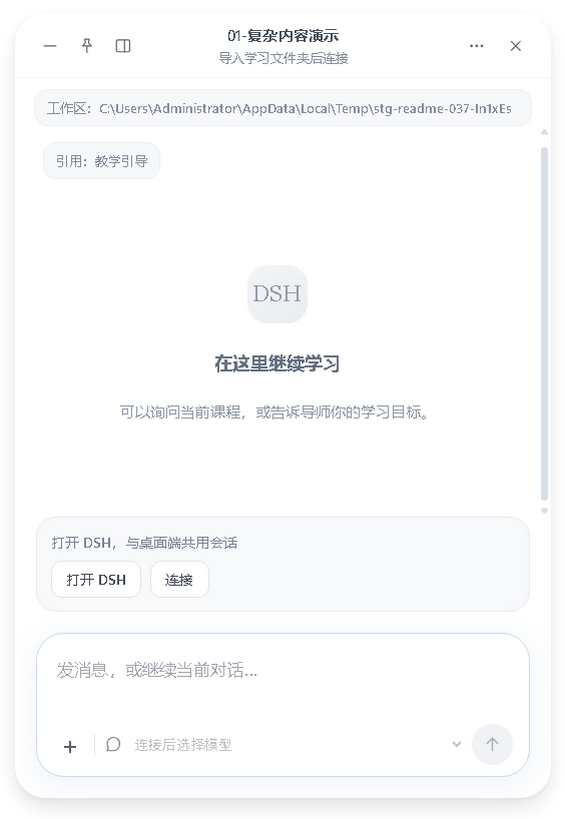
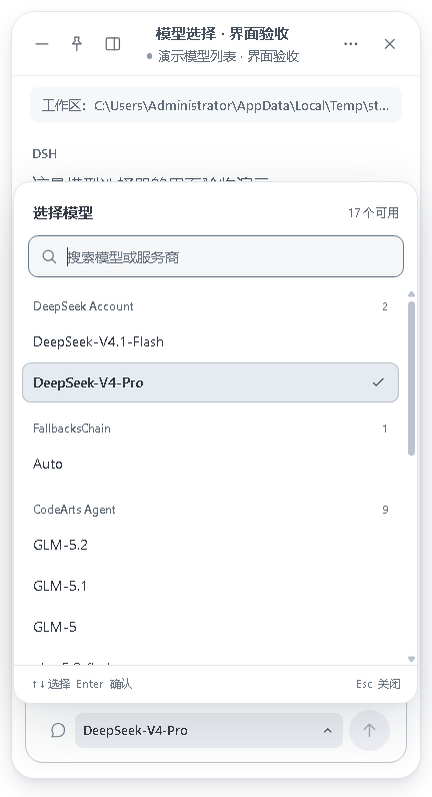
docs: update bilingual README for v0.3.18 workspace and DSH controls

diff --git a/README.en.md b/README.en.md
@@ -22,20 +22,20 @@ Reading, editing, and answering work independently; connect DSH when needed. Lea
 
 > This README covers [v0.3.18](https://github.com/wildcat430524/STG-Desk/releases/tag/v0.3.18). See the [release notes](https://github.com/wildcat430524/STG-Desk/releases) for version changes. The app interface is currently in Chinese.
 
-v0.3.18 removes the redundant plus button and divider from the composer, and balances the spacing between model selection and send. Course context remains automatic; searchable model selection, adjustable panes, and keyboard navigation remain available.
+v0.3.18 provides a simpler composer with aligned model and send controls and automatic course context. Search models and providers, resize panes, and switch between the lesson and answers when space is limited.
 
 ## Preview
 
 Teaching, answers, current chapter progress, and overall progress have separate entries. Documents can open in detached windows, and DSH offers a side panel or a floating window.
 
-![Model picker with provider search, price badges, and current selection](docs/screenshots/model-picker.png)
-
-The model picker supports provider groups, search, and keyboard navigation. This screenshot uses a demonstration model catalog.
-
 ![Teaching and answers in one workspace, with DSH available on demand](docs/screenshots/workspace.png)<br>
 <sub><strong>The workspace.</strong> Read the lesson on the left and answer question by question on the right. Open the DSH panel from the top-right corner when you need evaluation or discussion.</sub>
 
 Screenshots use demo lessons and test drafts, with no real learning records or model responses.
+
+![Model picker with provider search, price badges, and current selection](docs/screenshots/model-picker.png)
+
+The model picker supports provider groups, search, and keyboard navigation. This screenshot uses a demonstration model catalog.
 
 ## Features
 
@@ -46,7 +46,9 @@ Screenshots use demo lessons and test drafts, with no real learning records or m
 - **Edit the full answer document**: open the answer page directly or view and edit the complete student document beside the lesson.
 - **Follow recorded progress**: read chapter progress, overall progress, handoff status, and mastery records from existing documents.
 - **Read your way**: detached teaching and answer windows, font size, line spacing, reading width, night theme, and focus mode.
-- **Use native DSH sessions**: live messages and model selection come from your local DSH. The panel and floating window share the conversation and input draft.
+- **Adjust the workspace layout**: drag separators to allocate space to the lesson, answers, and DSH. Layout is remembered per workspace; switch between the lesson and answers in narrow areas.
+- **Use native DSH sessions**: search models grouped by provider, with price badges and a clear current selection. The panel and floating window share the conversation and input draft.
+- **Ask with course context**: messages automatically include relevant saved course documents. Copy messages or code separately, and jump back to the latest reply.
 - **Review and recover saves**: one-click saving of current edits, backups before writes, external-change alerts, and history restoration.
 
 The app displays existing records. Mastery decisions, tutor evaluations, and new lessons are supplied by the tutor or learning agent.
@@ -91,6 +93,12 @@ Teaching and answer documents share a filename prefix and directory so the app c
 Click headings, text, checklists, or tables to edit directly; double-click inline math to edit it. Document information and controls sit at the bottom, with reading settings, a night theme, and 「专注」 (Focus). Press `Esc` or use the exit control to leave focus mode.
 
 ![Edit headings, checklists, tables, math, and code directly](docs/screenshots/visual-editor.png)
+
+### Adjusting the pane layout
+
+Drag the separator between the lesson and answers, or between the workspace and DSH, to resize the panes. Double-click a separator to restore its default width. Layout is remembered for each learning workspace and restored when you reopen that directory.
+
+When the lesson and answer area becomes narrow, the title bar offers 「教学 / 本轮作答」 (Lesson / Current answers) controls. Switching views preserves typed answers. You can also focus a separator with `Tab` and adjust it with the left and right arrow keys.
 
 ### Code blocks
 
@@ -181,11 +189,19 @@ Start **DeepSeek Harness Desktop**, configure an available model, and keep its m
 
 Your local DSH manages the model catalog, accounts, and quotas. Save your answers before sending an evaluation request so the learning agent can read the document.
 
+**Choosing a model.** Click the model name below the message field to search model or provider names. Results are grouped by provider, show price badges supplied by DSH, and mark the current model with a check. Use arrow keys to navigate, `Enter` to confirm, and `Esc` to close. Switching is disabled while a reply is being generated; a failed switch keeps the previous model.
+
+**Automatic course context.** Each message includes relevant saved course documents, such as the teaching guide, student answers, learning profile, and learning rules. No extra quote button is needed. Unsaved edits are not included as document context, so save question-based answers before requesting evaluation.
+
+<img src="docs/screenshots/composer.png" alt="Simplified DSH composer with model selection and send; course context is automatic" width="420">
+
+**Reading and sending.** `Enter` sends; `Shift+Enter` inserts a new line. During generation, the send button becomes a stop button. Scrolling up preserves your reading position; click 「回到最新 ↓」 to follow new replies again. Copy an entire message below its content, or copy an individual code block, with visible copy feedback.
+
 [dsh-stg-learning](https://github.com/wildcat430524/dsh-stg-learning) is a separate DSH learning-management plugin for organizing workspaces and sessions. It is not required to connect STG Desk to DSH.
 
-Switch the panel to a floating window that can stay on top, keeping the same session, model, and input draft. The screenshot shows the window before connection.
+Switch the panel to a floating window that can stay on top, keeping the same session, model, and input draft. The screenshot uses a demonstration session and model catalog to show model selection in the floating window.
 
-<img src="docs/screenshots/dsh-floating.png" alt="DSH floating window before connection" width="420">
+<img src="docs/screenshots/dsh-floating.png" alt="DSH floating window and model picker using demonstration data" width="420">
 
 <details>
 <summary><strong>DSH version and connection settings</strong></summary>
@@ -261,6 +277,8 @@ npm start
 | `npm test` | Run parsing, navigation, file-saving, draft, DSH protocol, and editor highlighting/math tests |
 | `npm run test:desktop` | Build and run the Electron desktop smoke checks |
 | `npx electron tests/answer-layout-ui.cjs` | After building, verify question switching, draft recovery, focused answering, and round saving |
+| `npx electron tests/model-picker-ui.cjs` | After building, check model search, failed-switch recovery, keyboard controls, and floating-window zoom |
+| `npx electron tests/ui-system-ui.cjs` | After building, check pane resizing, narrow-area switching, conversation reading, and popup focus |
 | `npm run pack` | Create a Windows directory build; keep the entire `release/win-unpacked/` directory when running it |
 | `npm run dist` | Create `release/STG-Desk-<version>-Windows.exe` |
 

diff --git a/README.md b/README.md
@@ -22,7 +22,7 @@ STG Desk 是面向 [StepsToGreat](https://github.com/wildcat430524/StepsToGreat)
 
 > 本文对应 [v0.3.18](https://github.com/wildcat430524/STG-Desk/releases/tag/v0.3.18)，各版本变化见 [发布说明](https://github.com/wildcat430524/STG-Desk/releases)。应用界面目前为中文。
 
-v0.3.18 移除输入区重复的加号按钮和分隔线，重新整理模型选择与发送按钮的间距。课程资料继续自动关联；保留可搜索的模型菜单、面板宽度调整与键盘操作。
+v0.3.18 使用精简的对话输入区，模型选择与发送按钮保持对齐；课程资料自动关联。支持搜索模型与服务商、调整面板宽度，以及在窄区域切换教学和作答。
 
 ## 界面预览
 
@@ -46,7 +46,9 @@ v0.3.18 移除输入区重复的加号按钮和分隔线，重新整理模型选
 - **完整文档随时修改**：回答页直接编辑全文，也能在教学旁查看与修改完整学生文档。
 - **进度有据可查**：读取文档中的章节进度、总体进度、交接状态和掌握记录。
 - **按自己的习惯阅读**：独立教学与回答窗口、字号与行距设置、阅读宽度、夜间主题和专注模式。
-- **沿用 DSH 会话**：实时消息与模型选择来自本机 DSH；面板和小窗共用同一对话与输入草稿。
+- **调整工作台布局**：拖动分隔线分配教学、作答与 DSH 的宽度；按工作区记住布局，区域较窄时切换教学与作答。
+- **沿用 DSH 会话**：按服务商分组搜索模型，查看价格标记和当前选择；面板和小窗共用同一对话与输入草稿。
+- **带着课程资料提问**：发送时自动关联当前课程已保存的相关文档；对话支持复制消息、复制代码和回到最新回复。
 - **保存可以回头核对**：一键保存现有修改、写入前备份、外部修改提醒与历史恢复。
 
 软件展示已有学习记录，掌握判断、导师评估与下一课由导师或学习 Agent 更新。
@@ -91,6 +93,12 @@ StepsToGreat/
 点击文档的标题、正文、清单或表格直接编辑；行内公式可双击修改。文档信息与操作集中在底部，可调整阅读设置、切换夜间主题或进入「专注」。按 `Esc` 或点击退出入口返回普通布局。
 
 ![直接编辑标题、清单、表格、公式与代码](docs/screenshots/visual-editor.png)
+
+### 调整面板布局
+
+拖动教学与作答之间、工作台与 DSH 之间的分隔线调整宽度；双击分隔线恢复默认。宽度设置按学习工作区记忆，重新打开同一目录后恢复。
+
+教学与作答所在区域较窄时，标题栏会出现「教学 / 本轮作答」切换入口。切换视图保留已输入的答案。分隔线也可以通过 `Tab` 聚焦，再用左右方向键微调。
 
 ### 代码块
 
@@ -181,11 +189,19 @@ C/C++ · C# · Go · Rust · Kotlin · YAML · Markdown · Diff · 纯文本
 
 模型目录、账号和额度由你本机的 DSH 管理。保存答案后，再发送评估请求，让学习 Agent 读取文档进行评估。
 
+**模型选择。** 点击输入区底部的模型名称，搜索模型名称或服务商。列表按服务商分组，显示 DSH 提供的价格标记，并以勾选标出当前模型。可用方向键选择、`Enter` 确认、`Esc` 关闭；回复生成期间不能切换模型，切换失败会保留原模型。
+
+**自动关联资料。** 每次发送时自动读取当前课程相关的已保存文档，例如教学引导、学生回答、学习档案和学习规则。输入区无需额外点击引用按钮；尚未保存的编辑不会作为文档上下文发送，按题答案请先保存。
+
+<img src="docs/screenshots/composer.png" alt="精简的 DSH 输入区：模型选择与发送按钮，课程资料自动关联" width="420">
+
+**阅读与发送。** `Enter` 发送，`Shift+Enter` 换行；生成时发送按钮变为停止按钮。上翻历史消息时保持当前阅读位置，点击「回到最新 ↓」继续跟随回复。消息下方可复制整条内容，代码块可单独复制，并显示复制结果。
+
 [dsh-stg-learning](https://github.com/wildcat430524/dsh-stg-learning) 是独立的 DSH 学习管理插件，用于在 DSH 内组织工作区与会话；连接 DSH 无需安装该插件。
 
-DSH 面板可切换为置顶小窗，继续使用同一会话、模型和输入草稿。下图展示尚未连接时的界面。
+DSH 面板可切换为置顶小窗，继续使用同一会话、模型和输入草稿。下图使用演示会话与模型列表展示小窗中的模型选择面板。
 
-<img src="docs/screenshots/dsh-floating.png" alt="DSH 独立小窗，尚未连接" width="420">
+<img src="docs/screenshots/dsh-floating.png" alt="DSH 独立小窗与模型选择面板，使用演示数据" width="420">
 
 <details>
 <summary><strong>DSH 版本与连接配置</strong></summary>
@@ -262,6 +278,8 @@ npm start
 | `npm run test:desktop` | 构建并运行 Electron 桌面冒烟验收 |
 | `npx electron tests/save-current-ui.cjs` | 构建后验证一键保存、旧内容恢复、全文预览与 Ctrl+S |
 | `npx electron tests/answer-layout-ui.cjs` | 构建后验证切题、草稿恢复、专注作答与整轮保存 |
+| `npx electron tests/model-picker-ui.cjs` | 构建后验证模型搜索、切换失败恢复、键盘操作及小窗缩放 |
+| `npx electron tests/ui-system-ui.cjs` | 构建后验证面板宽度、窄区域切换、对话阅读与弹层焦点 |
 | `npm run pack` | 生成 Windows 目录版，使用时保留整个 `release/win-unpacked/` |
 | `npm run dist` | 生成 `release/STG-Desk-<版本号>-Windows.exe` |
 
